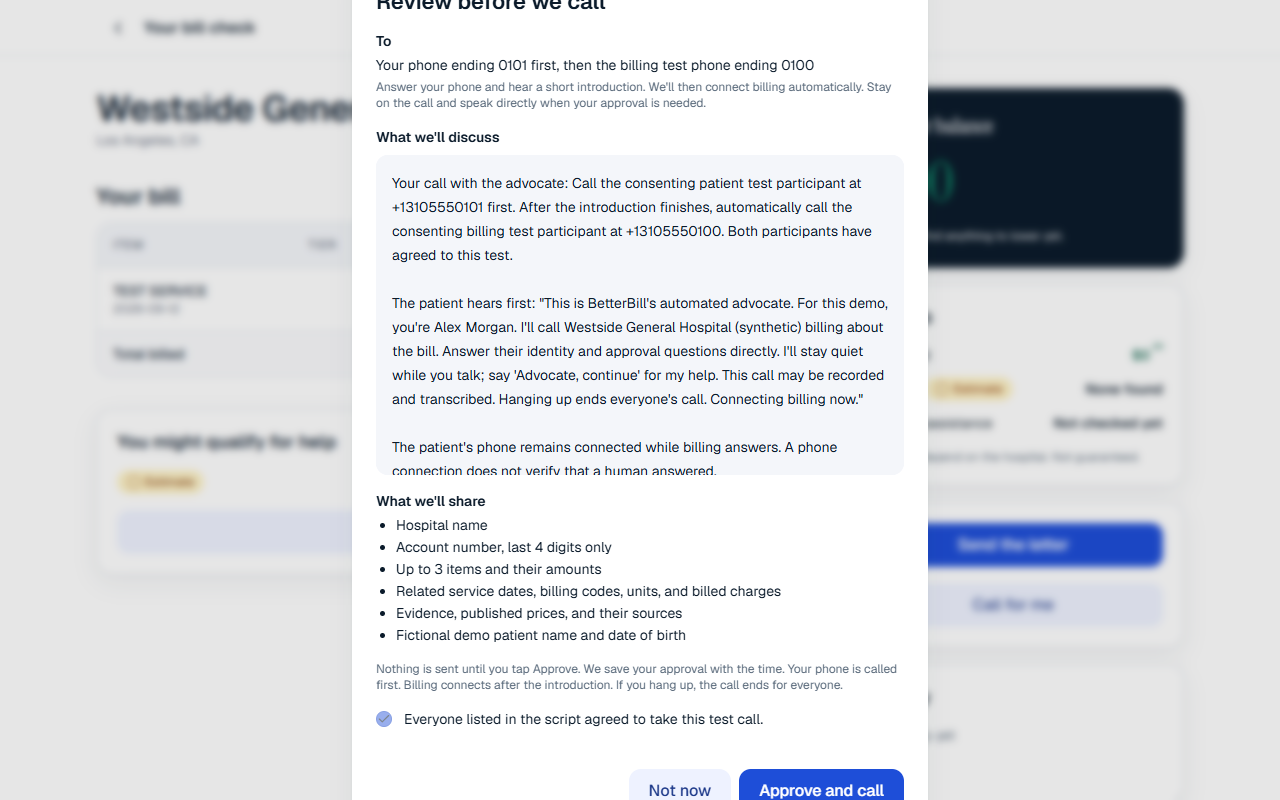
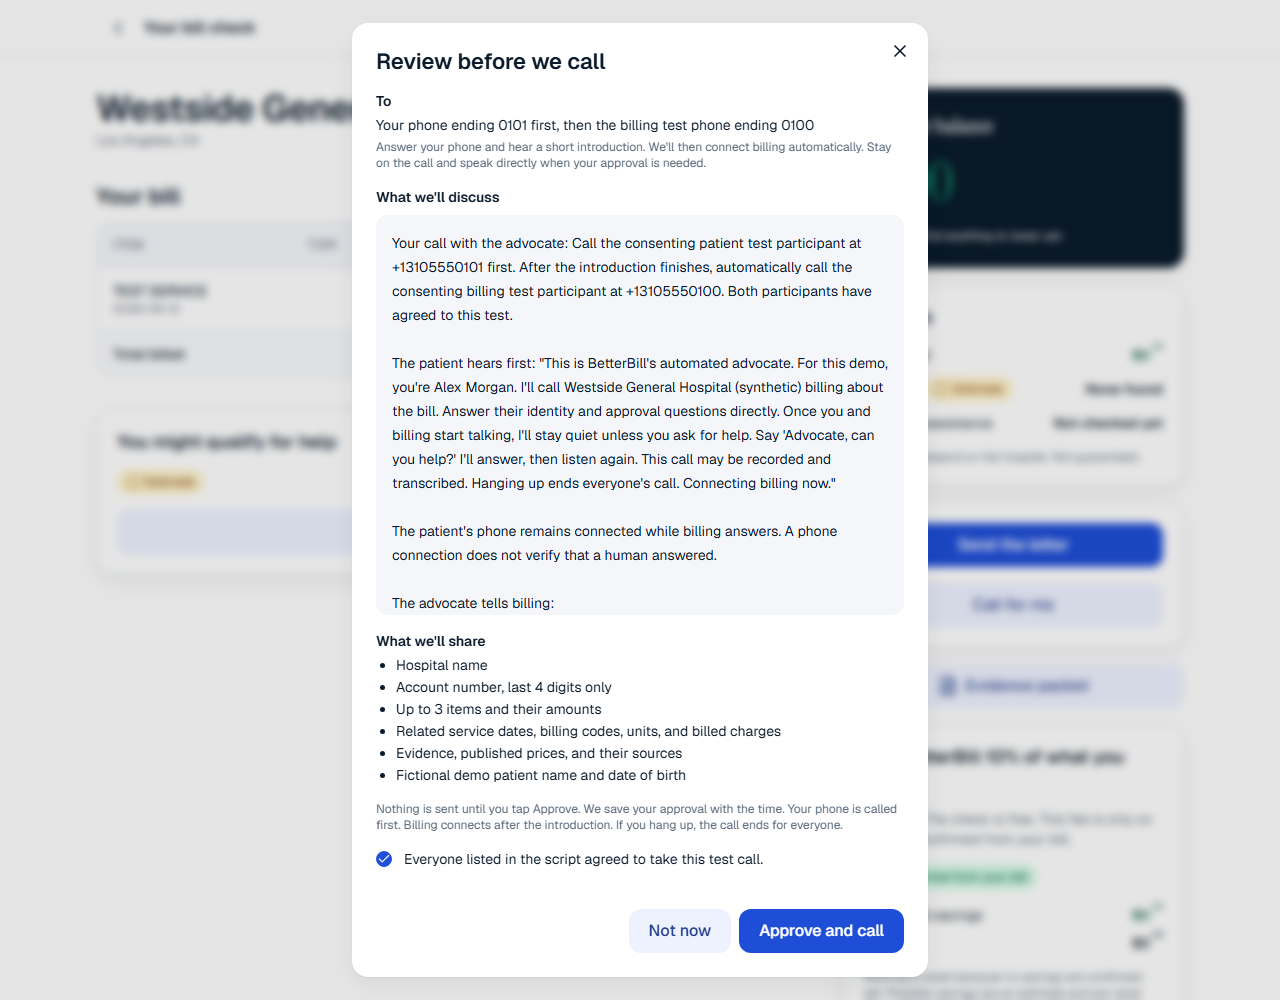
test: verify call flows and stabilize generated data

diff --git a/packages/api/src/data.gen.ts b/packages/api/src/data.gen.ts
@@ -6333,17 +6333,6 @@ export const DATA = {
   ],
   "policies": [
     {
-      "hospitalName": "Ronald Reagan UCLA Medical Center",
-      "policyTitle": "Hospital Services: Patient Financial Assistance | UCLA Health",
-      "policyUrl": "https://www.uclahealth.org/patient-resources/billing-insurance/financial-assistance-program/hospital-services-help-paying-your-bill",
-      "capturedAt": "2026-10-18T09:42:53.796Z",
-      "freeCareMaxFplPct": 400,
-      "freeCareQuote": "Self-Pay Patients with Patient's Family incomes not exceeding 400% of the FPL and who reside in the Hospital's primary service area as defined in Appendix 1 may be eligible for a 100% Charity Care discount on services rendered and billed by the Hospital for emergency and Medically Necessary Care.",
-      "discountMaxFplPct": 450,
-      "discountQuote": "A Financially Qualified patient is defined as any patient with Patient's Family income that does not exceed 450% of the Federal Poverty Level and is:",
-      "references501r": "This Financial Assistance Policy is intended to comply with Section 501(r) of the Internal Revenue Code (IRC) as enacted by the Affordable Care Act, and the implementing regulations, effective for tax years beginning after December 29, 2015 as well California Health & Safety Code section 127400 et seq. (AB 774), Hospital Fair Pricing Policies, effective January 1, 2007, and Emergency Physician Fair Pricing Policies, effective January 1, 2011, and Office of Inspector General, Department of Health and Human Services (OIG) guidance regarding financial assistance to uninsured and under-insured patients."
-    },
-    {
       "hospitalName": "Cedars-Sinai Medical Center",
       "policyTitle": "Financial Assistance Policy",
       "policyUrl": "https://www.cedars-sinai.org/billing-insurance-records/help-paying-your-bill.html",
@@ -6353,6 +6342,17 @@ export const DATA = {
       "discountMaxFplPct": 600,
       "discountQuote": "Patients whose income ranges between 401% to 600% of FPL qualify for a Discount Payment.",
       "references501r": "U.S. Internal Revenue Code Section 501(r)(3)."
+    },
+    {
+      "hospitalName": "Ronald Reagan UCLA Medical Center",
+      "policyTitle": "Hospital Services: Patient Financial Assistance | UCLA Health",
+      "policyUrl": "https://www.uclahealth.org/patient-resources/billing-insurance/financial-assistance-program/hospital-services-help-paying-your-bill",
+      "capturedAt": "2026-10-18T09:42:53.796Z",
+      "freeCareMaxFplPct": 400,
+      "freeCareQuote": "Self-Pay Patients with Patient's Family incomes not exceeding 400% of the FPL and who reside in the Hospital's primary service area as defined in Appendix 1 may be eligible for a 100% Charity Care discount on services rendered and billed by the Hospital for emergency and Medically Necessary Care.",
+      "discountMaxFplPct": 450,
+      "discountQuote": "A Financially Qualified patient is defined as any patient with Patient's Family income that does not exceed 450% of the Federal Poverty Level and is:",
+      "references501r": "This Financial Assistance Policy is intended to comply with Section 501(r) of the Internal Revenue Code (IRC) as enacted by the Affordable Care Act, and the implementing regulations, effective for tax years beginning after December 29, 2015 as well California Health & Safety Code section 127400 et seq. (AB 774), Hospital Fair Pricing Policies, effective January 1, 2007, and Emergency Physician Fair Pricing Policies, effective January 1, 2011, and Office of Inspector General, Department of Health and Human Services (OIG) guidance regarding financial assistance to uninsured and under-insured patients."
     }
   ],
   "fpl": {
@@ -6393,6 +6393,49 @@ export const DATA = {
     }
   },
   "captures": [
+    {
+      "hospitalName": "Cedars-Sinai Medical Center",
+      "capturedAt": "2026-10-17T23:00:45Z",
+      "sources": [
+        {
+          "kind": "cms_hpt_txt",
+          "url": "https://www.cedars-sinai.org/cms-hpt.txt",
[1 lines of base64/hex data omitted]
+        },
+        {
+          "kind": "price_page",
+          "url": "https://cedars-sinai.org/price-transparency.html",
[1 lines of base64/hex data omitted]
+        },
+        {
+          "kind": "mrf",
+          "url": "https://www.cedars-sinai.org/content/dam/cedars-sinai/billing-insurance/documents/951644600_CEDARS-SINAI-MEDICAL-CENTER_standardcharges.json",
[1 lines of base64/hex data omitted]
+        }
+      ],
+      "prices": [
+        {
+          "code": "72148",
+          "setting": "inpatient",
+          "discountedCashCents": 668608
+        },
+        {
+          "code": "72148",
+          "setting": "outpatient",
+          "discountedCashCents": 514315
+        },
+        {
+          "code": "85025",
+          "setting": "inpatient",
+          "discountedCashCents": 59129
+        },
+        {
+          "code": "85025",
+          "setting": "outpatient",
+          "discountedCashCents": 59129
+        }
+      ]
+    },
     {
       "hospitalName": "Ronald Reagan UCLA Medical Center",
       "capturedAt": "2026-10-18T00:55:12Z",
@@ -6453,49 +6496,6 @@ export const DATA = {
           "code": "81003",
           "setting": "outpatient",
           "discountedCashCents": 4950
-        }
-      ]
-    },
-    {
-      "hospitalName": "Cedars-Sinai Medical Center",
-      "capturedAt": "2026-10-17T23:00:45Z",
-      "sources": [
-        {
-          "kind": "cms_hpt_txt",
-          "url": "https://www.cedars-sinai.org/cms-hpt.txt",
[1 lines of base64/hex data omitted]
-        },
-        {
-          "kind": "price_page",
-          "url": "https://cedars-sinai.org/price-transparency.html",
[1 lines of base64/hex data omitted]
-        },
-        {
-          "kind": "mrf",
-          "url": "https://www.cedars-sinai.org/content/dam/cedars-sinai/billing-insurance/documents/951644600_CEDARS-SINAI-MEDICAL-CENTER_standardcharges.json",
[1 lines of base64/hex data omitted]
-        }
-      ],
-      "prices": [
-        {
-          "code": "72148",
-          "setting": "inpatient",
-          "discountedCashCents": 668608
-        },
-        {
-          "code": "72148",
-          "setting": "outpatient",
-          "discountedCashCents": 514315
-        },
-        {
-          "code": "85025",
-          "setting": "inpatient",
-          "discountedCashCents": 59129
-        },
-        {
-          "code": "85025",
-          "setting": "outpatient",
-          "discountedCashCents": 59129
         }
       ]
     }

diff --git a/e2e/patient-first.spec.ts b/e2e/patient-first.spec.ts
@@ -4,6 +4,7 @@ import { bill, line } from "../packages/core/src/__fixtures__/golden";
 import { balanceSummary } from "../packages/core/src/balance";
 import { buildCallVars } from "../packages/core/src/call";
 import { renderConferenceScript } from "../packages/core/src/conference";
+import { savingsFee } from "../packages/core/src/payments";
 import { computeSavings } from "../packages/core/src/savings";
 
 const caseId = "patient-first-ui-test";
@@ -30,6 +31,13 @@ const action = {
   sentAt: null,
   outcome: null,
 };
+const paymentQuote = {
+  caseId,
+  ...savingsFee(0),
+  potentialLowCents: 0,
+  potentialHighCents: 0,
+  paymentsEnabled: false,
+};
 const detail = {
   case: { id: caseId, status: "audited" },
   bill: testBill,
@@ -54,6 +62,8 @@ test("browser choice shows its own script and denied microphone never starts a c
   });
   await page.route("**/api/rpc/**", async (route) => {
     const path = new URL(route.request().url()).pathname;
+    if (path.endsWith("/payment/quote"))
+      return route.fulfill({ json: { json: paymentQuote } });
     if (path.endsWith("/case/get"))
       return route.fulfill({ json: { json: detail } });
     if (path.endsWith("/action/draftLetter")) {
@@ -125,7 +135,8 @@ test("patient-first review explains automatic connection and cancel never dials"
   await page.route("**/api/rpc/**", async (route) => {
     const path = new URL(route.request().url()).pathname;
     let data: unknown;
-    if (path.endsWith("/case/get")) data = detail;
+    if (path.endsWith("/payment/quote")) data = paymentQuote;
+    else if (path.endsWith("/case/get")) data = detail;
     else if (path.endsWith("/action/draftLetter"))
       data = {
         action: { ...action, approvedAt: null },
@@ -178,6 +189,14 @@ test("patient-first review explains automatic connection and cancel never dials"
   await expect(
     dialog.getByRole("button", { name: "Approve and call" }),
   ).toBeEnabled();
+  await expect(
+    page.getByText("Error: Failed to fetch", { exact: true }),
+  ).toHaveCount(0);
+  if (testInfo.project.name === "desktop")
+    await page.setViewportSize({ width: 1280, height: 1000 });
+  await dialog
+    .getByText("What we'll discuss", { exact: true })
+    .scrollIntoViewIfNeeded();
   await page.screenshot({
     path: `test-results/patient-first-approval-${testInfo.project.name}.png`,
   });

diff --git a/scripts/gen-api-data.ts b/scripts/gen-api-data.ts
@@ -27,6 +27,7 @@ export function buildData() {
     withFileTypes: true,
   })
     .filter((d) => d.isDirectory())
+    .sort((a, b) => a.name.localeCompare(b.name))
     .map((d) => tryRead(`data/hospitals/${d.name}/capture.json`))
     .filter(Boolean)
     .map((c) => ({
@@ -98,6 +99,7 @@ export function buildData() {
     withFileTypes: true,
   })
     .filter((d) => d.isDirectory())
+    .sort((a, b) => a.name.localeCompare(b.name))
     .map((d) => {
       const p = tryRead(`data/hospitals/${d.name}/policy.json`);
       const c = tryRead(`data/hospitals/${d.name}/capture.json`);

diff --git a/packages/api/src/routers/actions.int.test.ts b/packages/api/src/routers/actions.int.test.ts
@@ -248,6 +248,7 @@ describe.skipIf(!url)("action routes (integration)", () => {
     const PHONE = "+13105550100";
 
     beforeEach(() => {
+      vi.stubEnv("CALL_MODE", "direct");
       vi.stubEnv("CALL_ALLOWLIST", PHONE);
       vi.stubEnv("BB_FAKE_PROVIDERS", "1");
     });
